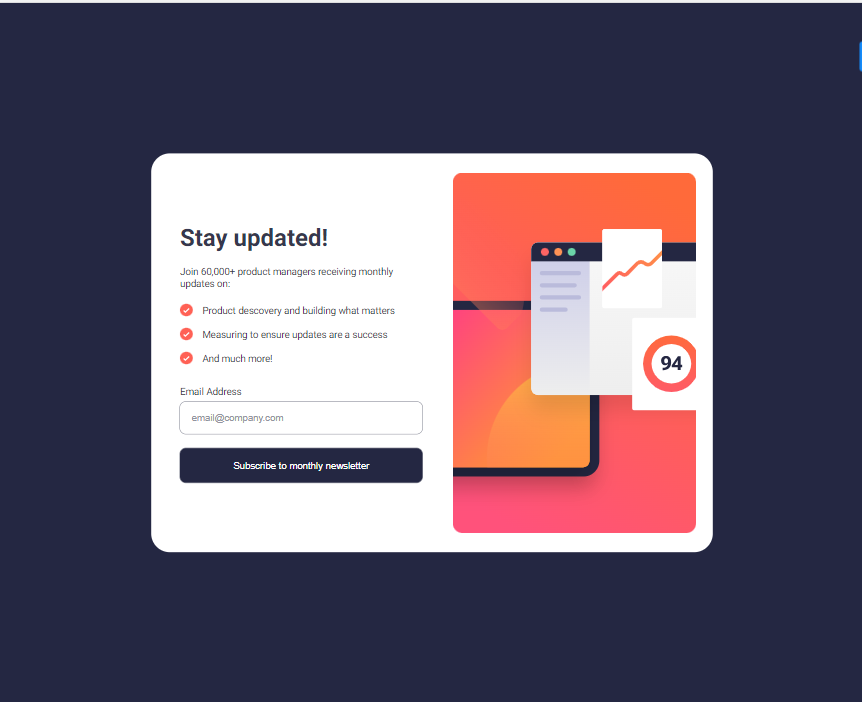
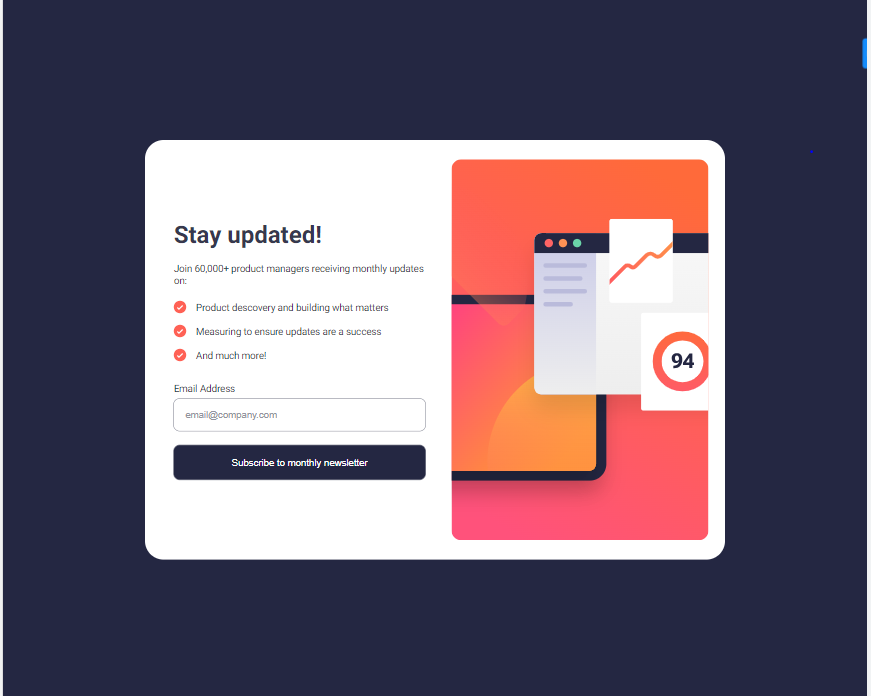
Update the screenshot

Changed region(s): [[0.1508, 0.181, 0.8445, 0.8147], [0.0, 0.0, 1.0, 1.0]]

diff --git a/design/styles.css b/design/styles.css
@@ -133,9 +133,9 @@ input::placeholder {
    }
 
    #signup-page {
-    max-width: 65%;
+    max-width: 70%;
     padding: 2rem;
-    height: 57%;
+    height: 60%;
     display: flex;
     align-items: center;
     justify-content: space-between;
@@ -146,7 +146,7 @@ input::placeholder {
    figure {
     order: 2;
     height: 100%;
-    width: 46%;
+    width: 47%;
    }
 
    #desktop-signup {
